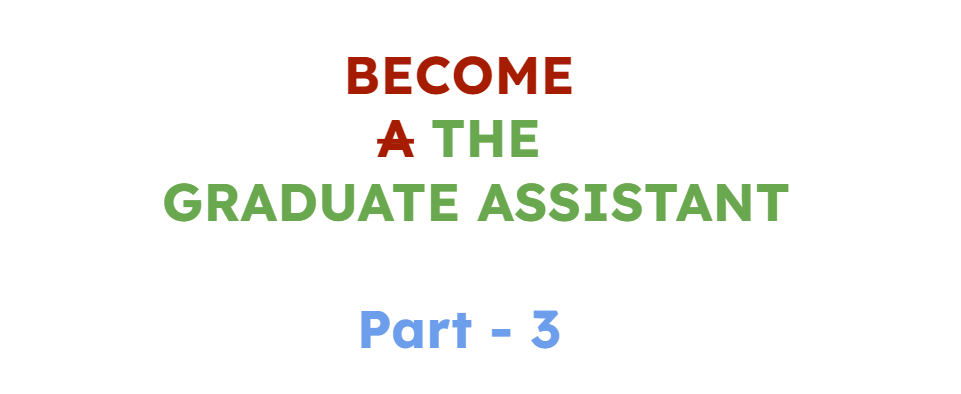
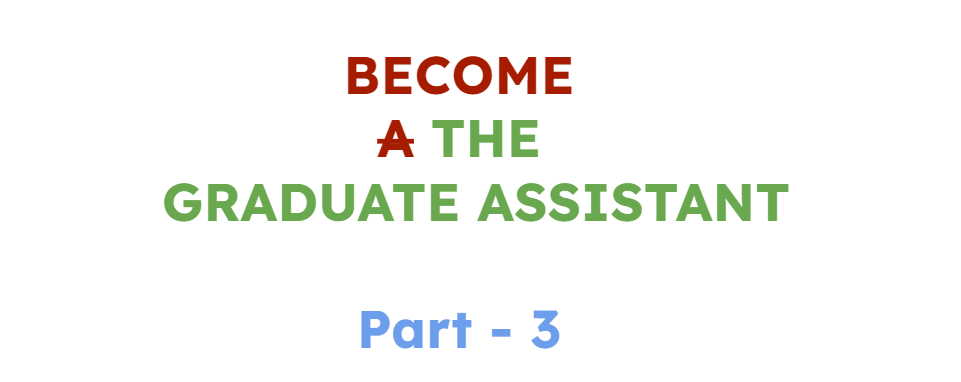
Updated become the GA part 3 blog

diff --git a/index.html b/index.html
@@ -875,6 +875,25 @@
             <div class="col-lg-4 col-md-6 blog-item">
               <div class="blog-info">
                 <a target="_blank"
+                  href="https://medium.com/@TharunKumarReddyPolu/how-i-secured-multiple-graduate-assistantships-in-my-first-semester-part-3-156baa12827d"><img
+                    src="assets/img/blogs/part-3.png" class="img-responsive" alt="img"></a>
+                <div class="blog-txt">
+                  <h4>How I Secured Multiple Graduate Assistantships in My First Semester: Part 3</h4>
+                  <p class="separator">Crack cold emailing: strategies, effective techniques, best practices, and a template for Aspiring Graduate Assistants</p>
+                </div>
+                <div class="read-more-btn-container">
+                  <a target="_blank"
+                    href="https://medium.com/@TharunKumarReddyPolu/how-i-secured-multiple-graduate-assistantships-in-my-first-semester-part-3-156baa12827d">
+                    <button id="blogs-read-more-btn" class="btn btn-primary btn-outlined"> Read More <i
+                        class='bx bx-link-external'></i></button>
+                  </a>
+                </div>
+              </div>
+            </div>
+
+            <div class="col-lg-4 col-md-6 blog-item">
+              <div class="blog-info">
+                <a target="_blank"
                   href="https://medium.com/@TharunKumarReddyPolu/how-i-secured-multiple-graduate-assistantships-in-my-first-semester-part-2-a392221eda06"><img
                     src="assets/img/blogs/part-2.png" class="img-responsive" alt="img"></a>
                 <div class="blog-txt">
